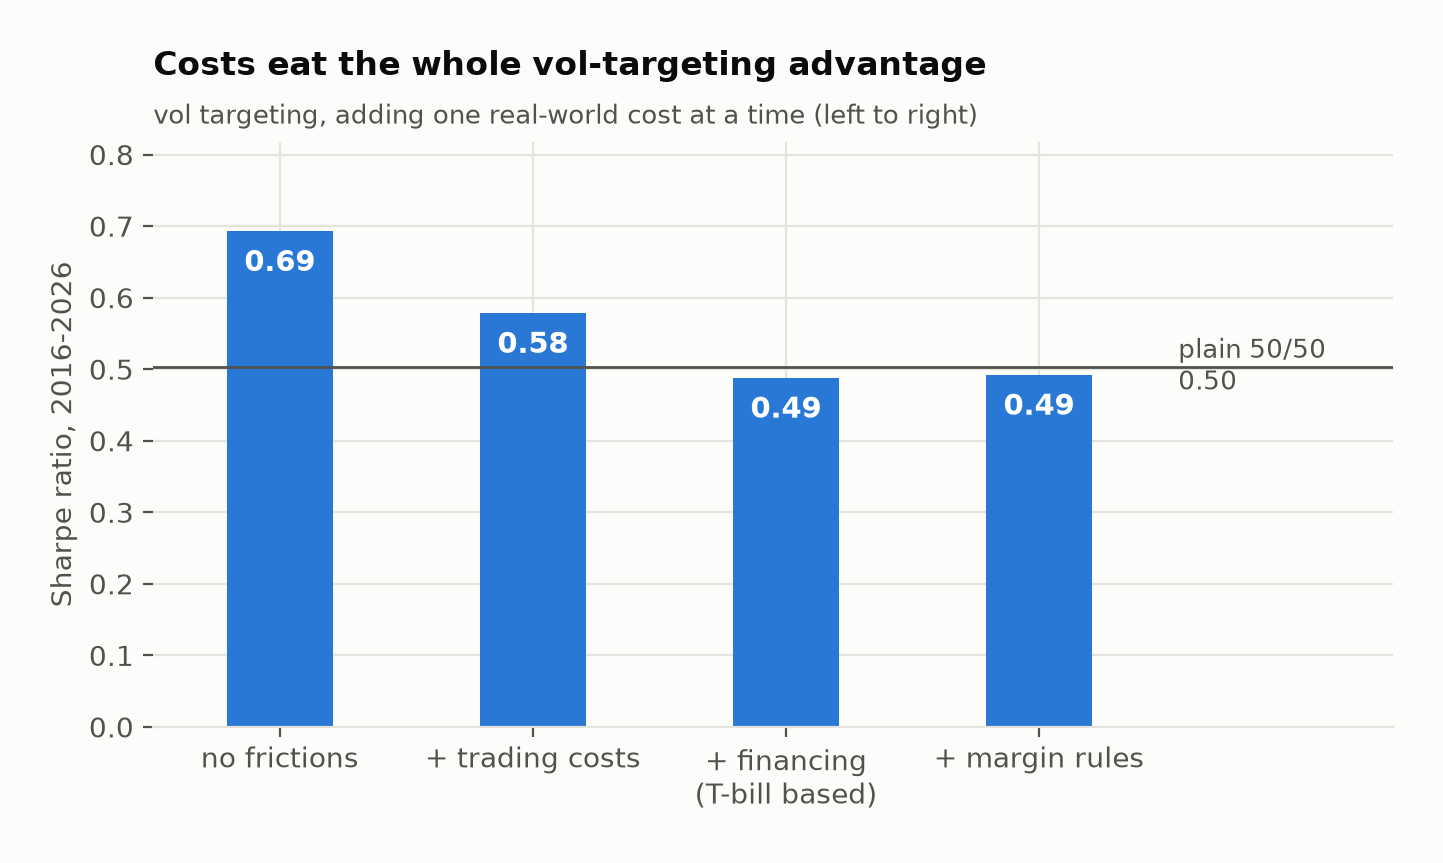
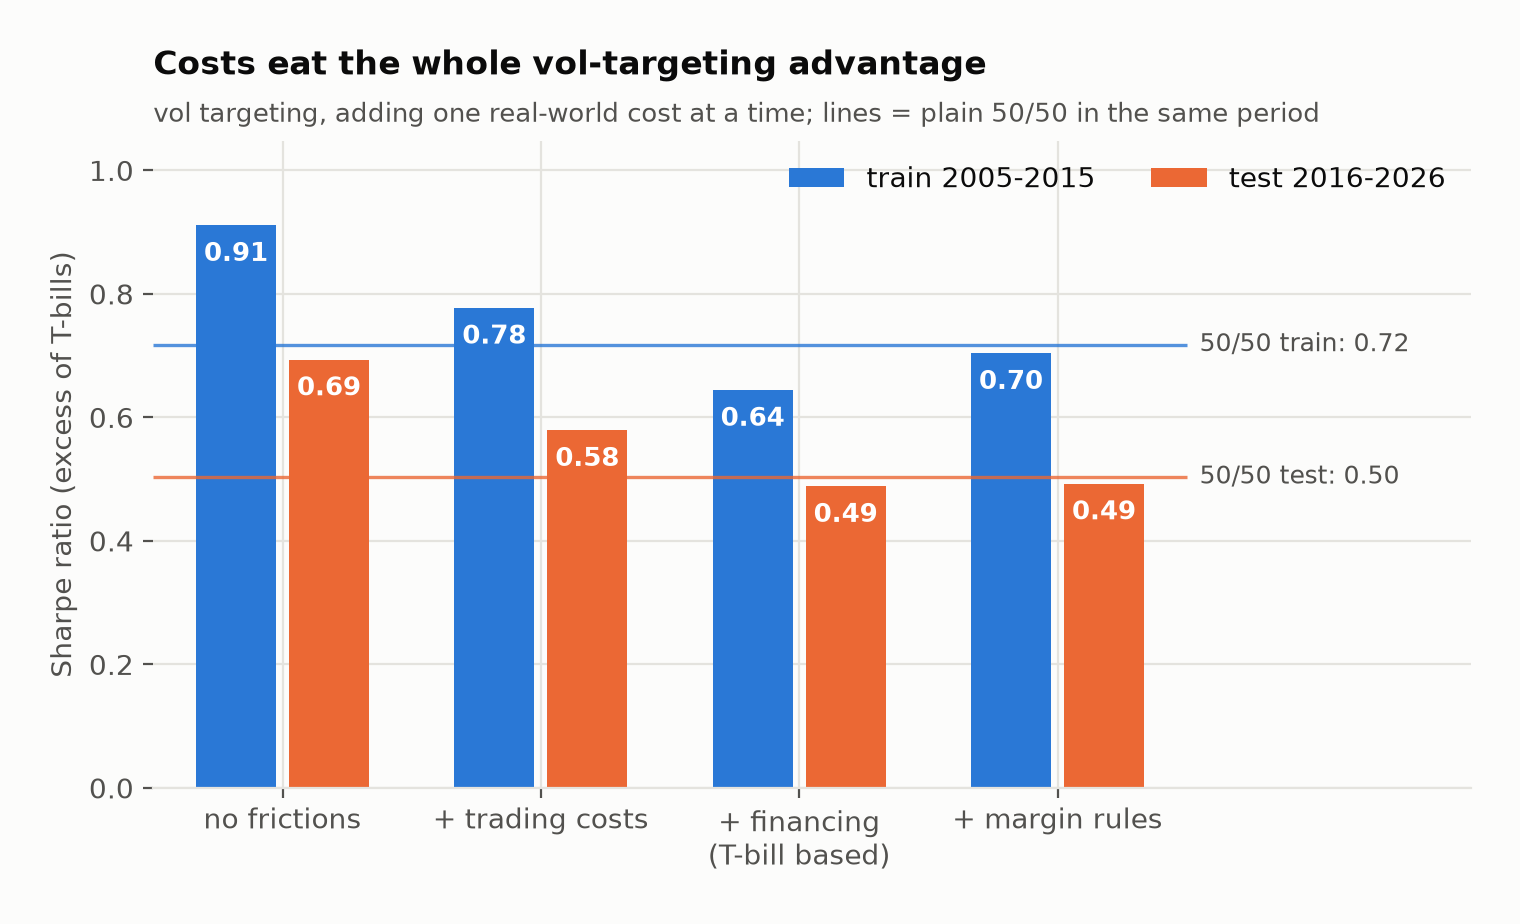
Restore train/test Sharpe bars in the realism-ladder chart

diff --git a/src/voltarget/figures.py b/src/voltarget/figures.py
@@ -100,22 +100,28 @@ def fig_drawdown(eq):
 
 
 def fig_ladder(ladder, comp):
-    lad = ladder.pivot(index="strategy", columns="period", values="Sharpe")["test"]
-    base = comp[(comp.strategy.str.startswith("Base")) & (comp.period == "test")].Sharpe.iloc[0]
+    lad = ladder.pivot(index="strategy", columns="period", values="Sharpe")
+    base = comp[comp.strategy.str.startswith("Base")].set_index("period").Sharpe
     steps = [s.split("  ", 1)[1].replace(" (", "\n(") for s in lad.index]
-    fig, ax = plt.subplots(figsize=(8, 3.8))
+    fig, ax = plt.subplots(figsize=(8.5, 4.2))
     x = np.arange(len(steps))
-    ax.bar(x, lad.values, width=0.42, color=CAT[0], zorder=2)
-    for xx, v in zip(x, lad.values):
-        ax.text(xx, v - 0.025, f"{v:.2f}", ha="center", va="top", fontsize=10.5, color="white", fontweight="bold", zorder=4)
-    ax.axhline(base, color=INK2, lw=1, zorder=3)
-    ax.set_xlim(-0.5, len(steps) - 0.5 + 0.9)
-    ax.text(len(steps) - 0.5 + 0.05, base, f"plain 50/50\n{base:.2f}", ha="left", va="center", fontsize=9.5, color=INK2)
+    w = 0.36
+    for i, (p, col, lab) in enumerate((("train", CAT[0], "train 2005-2015"), ("test", CAT[1], "test 2016-2026"))):
+        xs = x + (i - 0.5) * w
+        ax.bar(xs, lad[p], width=w - 0.05, color=col, label=lab, zorder=2)
+        for xx, v in zip(xs, lad[p]):
+            ax.text(xx, v - 0.025, f"{v:.2f}", ha="center", va="top", fontsize=9.5, color="white",
+                    fontweight="bold", zorder=4)
+        ax.hlines(base[p], -0.5, len(steps) - 0.5, color=col, lw=1.2, alpha=0.8, zorder=3)
+        ax.text(len(steps) - 0.5 + 0.05, base[p], f"50/50 {p}: {base[p]:.2f}", ha="left", va="center",
+                fontsize=9, color=INK2)
+    ax.set_xlim(-0.5, len(steps) - 0.5 + 1.1)
+    ax.set_ylim(0, lad.values.max() * 1.15)
     ax.set_xticks(x, steps)
-    ax.set_ylim(0, max(lad.max(), base) * 1.18)
-    ax.set_ylabel("Sharpe ratio, 2016-2026")
+    ax.set_ylabel("Sharpe ratio (excess of T-bills)")
+    ax.legend(loc="upper right", ncol=2)
     _title(ax, "Costs eat the whole vol-targeting advantage",
-           "vol targeting, adding one real-world cost at a time (left to right)")
+           "vol targeting, adding one real-world cost at a time; lines = plain 50/50 in the same period")
     _save(fig, "3_realism_ladder.png")
 
 
